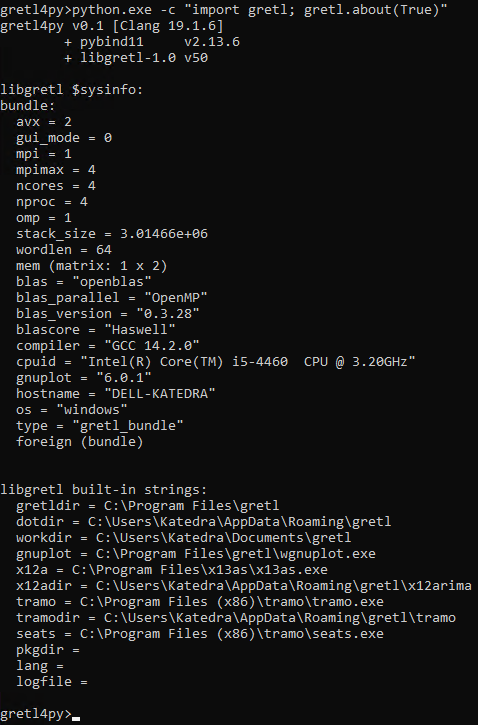
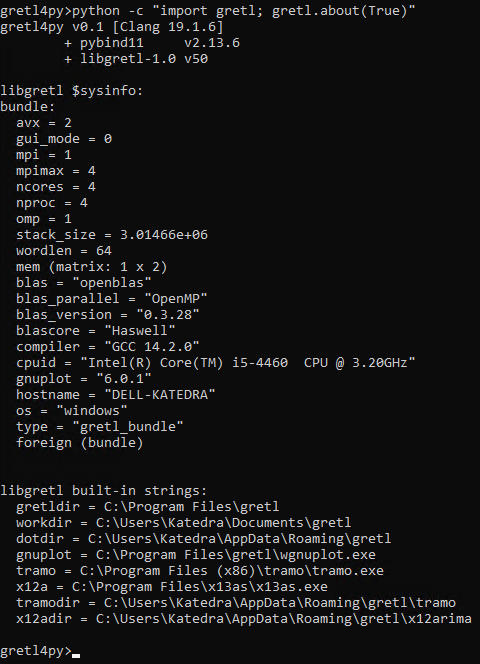
handling gtk2-based macOS official builds paths + some c++ code style tweaks

diff --git a/src/gretl_calls.cpp b/src/gretl_calls.cpp
@@ -56,7 +56,9 @@ static int gretl4py_verbose = 0;
 // workaround to manually resolve overloads ambiguity
 static MODEL (&garch_to_call)(const int*, DATASET*, gretlopt, PRN*) = garch;
 
+//////////////////////////////////////////////////
 // module related tools
+//////////////////////////////////////////////////
 
 void module_init (void)
 {
@@ -65,7 +67,7 @@ void module_init (void)
                                  + std::to_string(LIBGRETL_MIN_VER) + " or higher");
     }
     char *str = std::getenv("GRETL4PY_VERBOSE");
-    if (str != nullptr) {
+    if (str) {
         gretl4py_verbose = std::atoi(str);
     }
     libgretl_init();
@@ -93,7 +95,7 @@ void module_cleanup (void)
 py::dict about (bool do_print)
 {
     GretlBundle b = GretlBundle();
-    std::string lgretl_strings[8] =
+    const std::string lgretl_strings[8] =
         {"gretldir", "workdir", "dotdir", "gnuplot",
         "tramo", "x12a", "tramodir", "x12adir"};
     std::string mod_ver, lg_ver, py11_ver;
@@ -169,7 +171,9 @@ void set (const std::string key,
     }
 }
 
+//////////////////////////////////////////////////
 // data management
+//////////////////////////////////////////////////
 
 void attach_data (const py::dict &pydict)
 {
@@ -219,7 +223,9 @@ void sample (const py::kwargs &kwargs)
     DSET->sample(kwargs);
 }
 
+//////////////////////////////////////////////////
 // model estimation
+//////////////////////////////////////////////////
 
 // Apparatus to handle named optional arguments, including 'print'
 // and 'data' as well as gretl option flags and their parameters.
@@ -259,7 +265,7 @@ static gretlopt unpack_kwargs (const py::kwargs &kwargs,
         } else {
             // should be a regular gretl option: check its validity in
             // the context of @ci
-            if (strchr(key.c_str(), '_')) {
+            if (std::strchr(key.c_str(), '_')) {
                 char tmp[32];
 
                 std::strcpy(tmp, key.c_str());

diff --git a/src/gretl4py.h b/src/gretl4py.h
@@ -25,7 +25,10 @@
 
 namespace py = pybind11;
 
+//////////////////////////////////////////////////
 // module related tools
+//////////////////////////////////////////////////
+
 void module_init (void);
 
 void module_cleanup (void);
@@ -35,7 +38,10 @@ py::dict about (bool do_print = false);
 void set (const std::string key,
           const std::optional<py::object> &pyval = std::nullopt);
 
+//////////////////////////////////////////////////
 // data management
+//////////////////////////////////////////////////
+
 void attach_data (const py::dict &pydict);
 
 void attach_gretl_data (const std::string fname);
@@ -47,7 +53,10 @@ void printdata (const std::optional<py::dict> &data = std::nullopt,
 
 void sample (const py::kwargs &kwargs);
 
+//////////////////////////////////////////////////
 // model estimation
+//////////////////////////////////////////////////
+
 py::dict *arima (const std::string y, const py::tuple &tup, const py::kwargs &kwargs);
 
 py::dict *ols (const std::string formula, const py::kwargs &kwargs);

diff --git a/gretl/__init__.py b/gretl/__init__.py
@@ -38,7 +38,10 @@ if platform == "win-amd64":
         sysconfig.os.environ['PATH'] = GDIR + sysconfig.os.pathsep + currpath
 elif platform[0:5] == "macos":
     RES = '/Applications/Gretl.app/Contents/Resources/'
-    sysconfig.os.environ['GRETL_PLUGIN_PATH'] = RES + 'lib/plugins'
+    PLUGDIR = RES + 'lib/plugins'
+    if not sysconfig.os.path.exists(PLUGDIR):
+        PLUGDIR = RES + 'lib/gretl-gtk2' # we fall back to explicit gtk2-based path
+    sysconfig.os.environ['GRETL_PLUGIN_PATH'] = PLUGDIR
     sysconfig.os.environ['GRETL_DATA_PATH'] = RES + 'share/gretl/data'
     PATH = str(PATH + r'/gretl')
 else:
